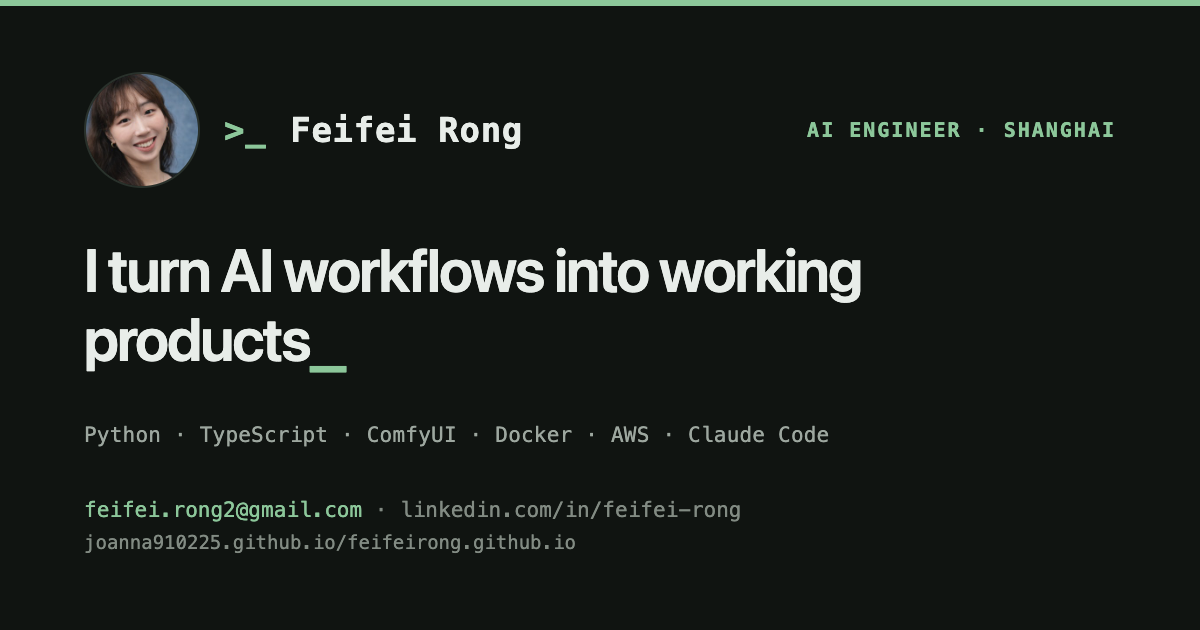
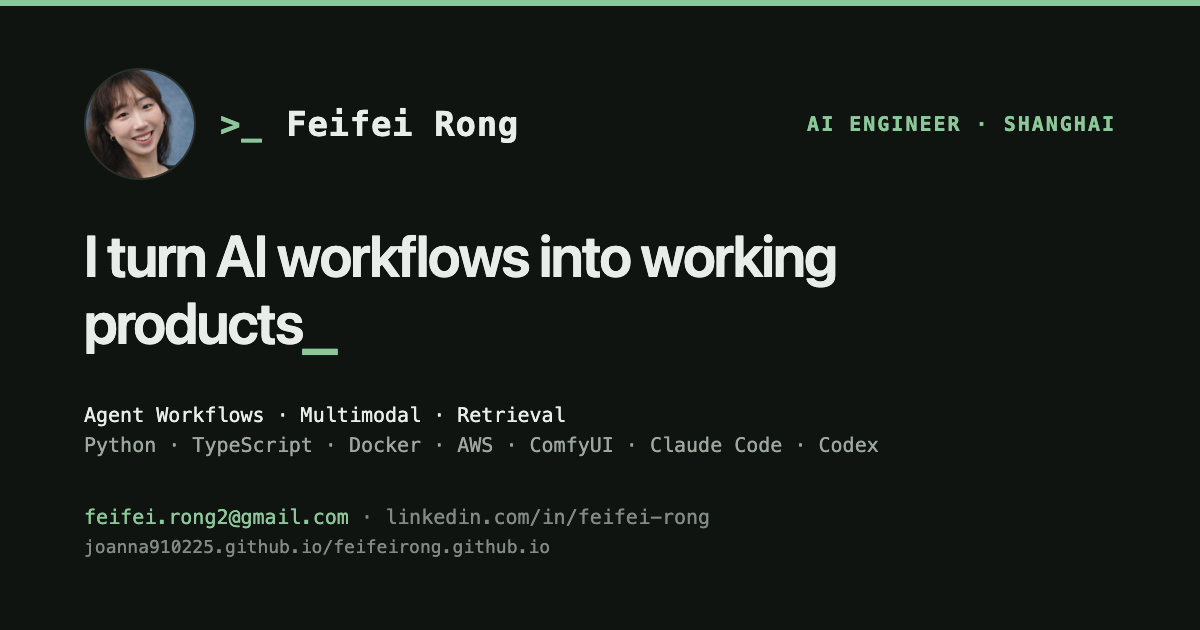
feat(seo): target the roles actually being applied for
The site never named a role anywhere a search engine or a preview could
see it: the homepage <title> was "Notes — Feifei Rong" and the meta
description was the brand tagline "AI systems / visual tools / field
notes". Both now carry the terms the target JDs use, drawn from the
frequency across 01-Active-Applications: Agent (31 mentions, across
模思智能 / Google / Coupang), workflow (28), retrieval (19), multimodal
(11), plus Codex alongside the existing Claude Code.

Surfaces changed:

- <title>   "Feifei Rong — AI Engineer · Agent Workflows · Multimodal"
            (60 chars, inside Google's truncation point)
- meta description / og:description
            one keyword-bearing sentence, since this string appears both
            as Google's result snippet and as the text under a shared
            link's preview image. New siteDescription key; siteTag stays
            for og:image:alt.
- hero body, About headline: same terms, kept readable.
- og-cover.png: stack is now two lines — the targeted domain first, the
  tools second — so nothing had to be dropped for space.

Wording boundary (agreed): "Agent Workflows" and "Retrieval" describe the
domain of the work, not a claim to have built an agent framework or a RAG
pipeline. The vault's own Google interview notes say "DAG is not an
autonomous Agent; vector retrieval is not a full RAG", and the 模思智能
analysis flags the same gap. So "AI Agents", "RAG" and "Agent Framework"
[…]

diff --git a/src/data/resume.ts b/src/data/resume.ts
@@ -3,7 +3,7 @@ export type ResumeLocale = 'en' | 'zh';
 export const resume = {
   en: {
     name: 'Feifei Rong',
-    headline: 'AI Engineer · Python · AI Coding & Cross-Stack Delivery · Workflow Orchestration',
+    headline: 'AI Engineer · Python · Agent Workflows · Multimodal · Retrieval',
     contact: 'feifei.rong2@gmail.com',
     linkedin: 'https://www.linkedin.com/in/feifei-rong/',
     summary: [
@@ -70,7 +70,7 @@ export const resume = {
   },
   zh: {
     name: '戎菲菲',
-    headline: 'AI 工程师 · Python · AI Coding 跨栈交付 · 工作流编排',
+    headline: 'AI 工程师 · Python · Agent 工作流 · 多模态 · 检索',
     contact: 'feifei.rong2@gmail.com',
     linkedin: 'https://www.linkedin.com/in/feifei-rong/',
     summary: [
